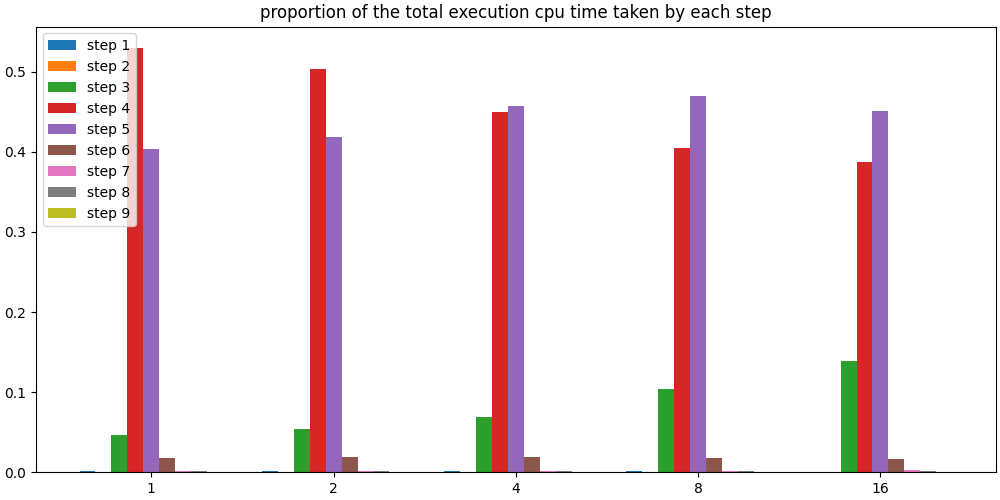
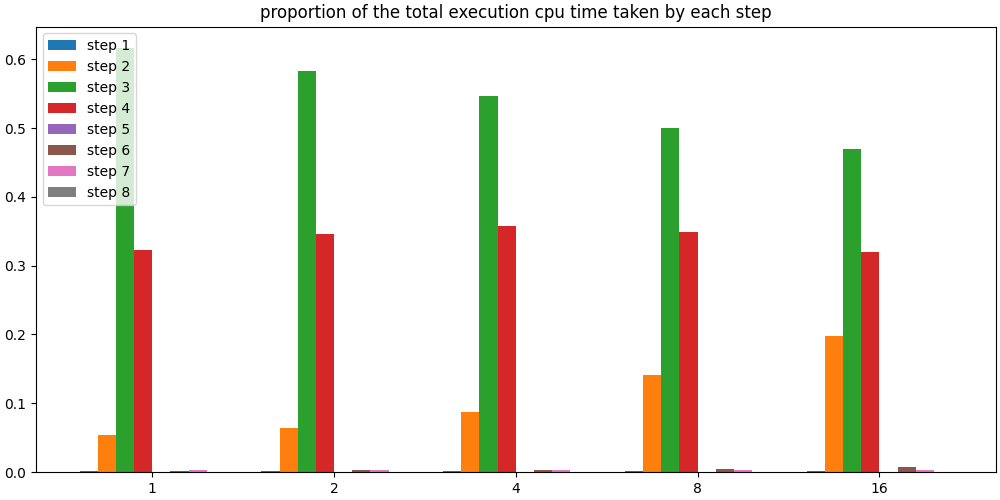
simplified grapher, and remove useless information

diff --git a/v6/scaling_test/scaling_test.cpp b/v6/scaling_test/scaling_test.cpp
@@ -2,70 +2,23 @@
 #include <vector>
 #include <sys/time.h>
 
-/* number of step */
-#define N_STEP 8
-
-/* define a custom "MID_STEP_FUNCTION(n)" that accumulate the time taken in each step */
-#define MID_STEP_FUNCTION(n) \
-	if (n > 0) { \
-		step_wall_duration[n - 1] += get_wall_time(); \
-		step_cpu_duration[n - 1] += get_cpu_time(); \
-	} \
-	if (n == N_STEP) { \
-		int n_rule = 0; \
-		if (rule.name == "erase_create") { \
-			n_rule = 2; \
-		} else if (rule.name == "split_merge") { \
-			n_rule = 3; \
-		} else if (rule.name == "coin") { \
-			n_rule = 2; \
-		} \
-\
-		size_t current_num_nodes = current_iteration.node_begin[current_iteration.num_graphs]; \
-		size_t next_num_nodes = next_iteration.node_begin[next_iteration.num_graphs]; \
-\
-		total_reads[0] += 2*current_iteration.num_graphs*sizeof(size_t) + n_rule*current_num_nodes; \
-		total_writes[0] += current_num_nodes + current_iteration.num_graphs*sizeof(size_t); \
-\
-		total_reads[1] += 2*current_iteration.num_graphs*sizeof(size_t); \
-		total_writes[1] += symbolic_num_graphs*(sizeof(size_t) + sizeof(unsigned short int)) + 2*current_iteration.num_graphs*sizeof(size_t); \
-\
-		total_reads[2] += symbolic_num_graphs*(6*sizeof(size_t) + 2*sizeof(PROBA_TYPE) + sizeof(short)) + 2*next_num_nodes; \
-		total_writes[2] += symbolic_num_graphs*(3*sizeof(size_t) + 2*sizeof(PROBA_TYPE)); \
-\
-		total_reads[3] += symbolic_num_graphs*(sizeof(size_t)*32 + sizeof(PROBA_TYPE)*4 + 10); \
-		total_writes[3] += symbolic_num_graphs*(sizeof(size_t)*17 + sizeof(PROBA_TYPE)*2 + 1); \
-\
-		total_reads[4] += symbolic_num_graphs_after_interferences*(2*sizeof(PROBA_TYPE) + 2*sizeof(float) + sizeof(size_t)); \
-		total_writes[4] += max_num_graphs*sizeof(size_t) + symbolic_num_graphs_after_interferences*sizeof(float); \
-\
-		total_reads[5] += next_iteration.num_graphs*((6 + std::log2(next_iteration.num_graphs))*sizeof(size_t) + 2*sizeof(PROBA_TYPE)); \
-		total_writes[5] = total_reads[6]; \
-\
-		total_reads[6] += n_rule*next_iteration.num_graphs + 3*next_iteration.num_graphs; \
-		total_writes[6] += 2*next_iteration.num_graphs*2; \
-\
-		total_reads[7] += 2*next_iteration.num_graphs*sizeof(PROBA_TYPE); \
-		total_writes[7] = total_reads[8]; \
-	} else { \
-		step_wall_duration[n] -= get_wall_time(); \
-		step_cpu_duration[n] -= get_cpu_time(); \
-	}	
-
 /* global vector to accumulate */
 #define STATE_GLOBAL_HEADER \
-	double get_wall_time() { \
+	double get_time() { \
 	    struct timeval time; \
 	    gettimeofday(&time,NULL); \
 	    return (double)time.tv_sec + (double)time.tv_usec * .000001; \
 	} \
-	double get_cpu_time() { \
-	    return (double)clock() / CLOCKS_PER_SEC; \
-	} \
-	std::vector<double> step_cpu_duration(N_STEP, 0.0); \
-	std::vector<double> step_wall_duration(N_STEP, 0.0); \
-	std::vector<double> total_reads(N_STEP, 0.0); \
-	std::vector<double> total_writes(N_STEP, 0.0);
+	std::vector<double> step_duration(N_STEP, 0.0);
+
+/* define a custom "MID_STEP_FUNCTION(n)" that accumulate the time taken in each step */
+#define MID_STEP_FUNCTION(n) \
+	if (n > 0) { \
+		step_duration[n - 1] += get_time(); \
+	}
+
+/* number of step */
+#define N_STEP 8
 
 #include "../src/rules.hpp"
 #include "../src/utils/parser.hpp"
@@ -80,9 +33,7 @@ int main(int argc, char* argv[]) {
 
 	cxxopts::Options options("file used for multi-threading test (does not run reversed iterations");
 	auto [s, rule, _, n_iter, __, n_fast] = test_parser(options, argc, argv);
-
-	double total_cpu_time = -get_cpu_time();
-	double total_wall_time = -get_wall_time();
+	double total_time = -get_time();
 
 	for (int i = 0; i < n_iter; ++i) {
 		if (n_fast == 0 || i % (n_fast + 1) == 0) {
@@ -93,41 +44,15 @@ int main(int argc, char* argv[]) {
 		move_all(s);
 	}
 
-	total_cpu_time += get_cpu_time();
-	total_wall_time += get_wall_time();
+	total_time += get_time();
 
 	/* print results as json */
-	printf("\t\"wall\" : {\n\t\t\"steps\" : [");
+	printf("\t\"steps\" : [");
 	for (unsigned int i = 0; i < N_STEP; ++i) {
-		printf("%f", step_wall_duration[i]);
+		printf("%f", step_duration[i]);
 		if (i < N_STEP - 1) {
 			printf(", ");
 		} else
-			printf("],\n\t\t\"total\" : %f\n\t}", total_wall_time);
+			printf("],\n\t\"total\" : %f\n}", total_time);
 	}
-	printf(",\n\t\"cpu\" : {\n\t\t\"steps\" : [");
-	for (unsigned int i = 0; i < N_STEP; ++i) {
-		printf("%f", step_cpu_duration[i]);
-		if (i < N_STEP - 1) {
-			printf(", ");
-		} else
-			printf("],\n\t\t\"total\" : %f\n\t}", total_cpu_time);
-	}
-	printf(",\n\t\"read_bandwidth\" : [");
-	for (unsigned int i = 0; i < N_STEP; ++i) {
-		printf("%f", total_reads[i] / step_wall_duration[i] / 1e9);
-		if (i < N_STEP - 1) {
-			printf(", ");
-		} else
-			printf("]");
-	}
-	printf(",\n\t\"write_bandwidth\" : [");
-	for (unsigned int i = 0; i < N_STEP; ++i) {
-		printf("%f", total_writes[i] / step_wall_duration[i] / 1e9);
-		if (i < N_STEP - 1) {
-			printf(", ");
-		} else
-			printf("]");
-	}
-	printf("\n}\n");
 }

diff --git a/v6/scaling_test/grapher.py b/v6/scaling_test/grapher.py
@@ -23,24 +23,24 @@ for filename in filenames:
 		data = json.load(f)
 
 	n_threads = list(data["results"].keys())[::-1]
-	mem_baseline = data["memory_bandwidth"]
+	#mem_baseline = data["memory_bandwidth"]
 
-	scaling = np.zeros((len(n_threads), len(data["results"]["1"]["wall"]["steps"]) + 1))
-	inverse_scaling = np.zeros((len(n_threads), len(data["results"]["1"]["wall"]["steps"]) + 1))
-	proportions = np.zeros((len(n_threads), len(data["results"]["1"]["wall"]["steps"])))
-	mem_read_bandwidth = np.zeros((len(n_threads), len(data["results"]["1"]["wall"]["steps"])))
-	mem_write_bandwidth = np.zeros((len(n_threads), len(data["results"]["1"]["wall"]["steps"])))
+	scaling = np.zeros((len(n_threads), len(data["results"]["1"]["steps"]) + 1))
+	proportions = np.zeros((len(n_threads), len(data["results"]["1"]["steps"])))
+	#inverse_scaling = np.zeros((len(n_threads), len(data["results"]["1"]["wall"]["steps"]) + 1))
+	#mem_read_bandwidth = np.zeros((len(n_threads), len(data["results"]["1"]["wall"]["steps"])))
+	#mem_write_bandwidth = np.zeros((len(n_threads), len(data["results"]["1"]["wall"]["steps"])))
 
 	for i, n_thread in enumerate(n_threads):
-		scaling[i, -1] = data["results"]["1"]["wall"]["total"] / data["results"][n_thread]["wall"]["total"]
-		inverse_scaling[i, -1] = data["results"][n_thread]["cpu"]["total"] / data["results"]["1"]["cpu"]["total"]
+		scaling[i, -1] = data["results"]["1"]["total"] / data["results"][n_thread]["total"]
+		#inverse_scaling[i, -1] = data["results"][n_thread]["cpu"]["total"] / data["results"]["1"]["cpu"]["total"]
 
 		for step in range(proportions.shape[1]):
-			proportions[i, step] = data["results"][n_thread]["wall"]["steps"][step] / data["results"][n_thread]["wall"]["total"]
-			scaling[i, step] = data["results"]["1"]["wall"]["steps"][step] / data["results"][n_thread]["wall"]["steps"][step]
-			inverse_scaling[i, step] = data["results"][n_thread]["cpu"]["steps"][step] / data["results"]["1"]["cpu"]["steps"][step]
-			mem_read_bandwidth[i, step] =  data["results"][n_thread]["read_bandwidth"][step]
-			mem_write_bandwidth[i, step] =  data["results"][n_thread]["write_bandwidth"][step]
+			proportions[i, step] = data["results"][n_thread]["steps"][step] / data["results"][n_thread]["total"]
+			scaling[i, step] = data["results"]["1"]["steps"][step] / data["results"][n_thread]["steps"][step]
+			#inverse_scaling[i, step] = data["results"][n_thread]["cpu"]["steps"][step] / data["results"]["1"]["cpu"]["steps"][step]
+			#mem_read_bandwidth[i, step] =  data["results"][n_thread]["read_bandwidth"][step]
+			#mem_write_bandwidth[i, step] =  data["results"][n_thread]["write_bandwidth"][step]
 
 
 
@@ -83,7 +83,7 @@ for filename in filenames:
 
 	# plot wall time scalling
 	fig, ax = plt.subplots(1, 1, figsize=(10, 5), constrained_layout=True)
-	ax.set_title("execution time reduction (in wall time) for each step")
+	ax.set_title("execution time scaling for each step")
 	ax.set_xticks(tick_position)
 	ax.set_xticklabels(n_threads)
 
@@ -99,7 +99,7 @@ for filename in filenames:
 
 	# saving fig
 	ax.legend(loc='upper left')
-	fig.savefig("plots/wall_scaling/wall_" + data["rule"] + ".png")
+	fig.savefig("plots/scaling/scaling_" + data["rule"] + ".png")
 
 
 
@@ -107,7 +107,7 @@ for filename in filenames:
 
 	# plot proportions
 	fig, ax = plt.subplots(1, 1, figsize=(10, 5), constrained_layout=True)
-	ax.set_title("proportion of the total execution cpu time taken by each step")
+	ax.set_title("proportion of the total execution time taken by each step")
 	ax.set_xticks(tick_position_1)
 	ax.set_xticklabels(n_threads)
 
@@ -122,7 +122,7 @@ for filename in filenames:
 
 
 
-	# plot cpu time scalling
+	"""# plot cpu time scalling
 	fig, ax = plt.subplots(1, 1, figsize=(10, 5), constrained_layout=True)
 	ax.set_title("execution time multiplication (in cpu time) for each step")
 	ax.set_xticks(tick_position)
@@ -171,4 +171,4 @@ for filename in filenames:
 	# saving fig
 	ax1.legend(loc='upper left')
 	ax2.legend(loc='upper left')
-	fig.savefig("plots/memory_scaling/mem_" + data["rule"] + ".png")
+	fig.savefig("plots/memory_scaling/mem_" + data["rule"] + ".png")"""
